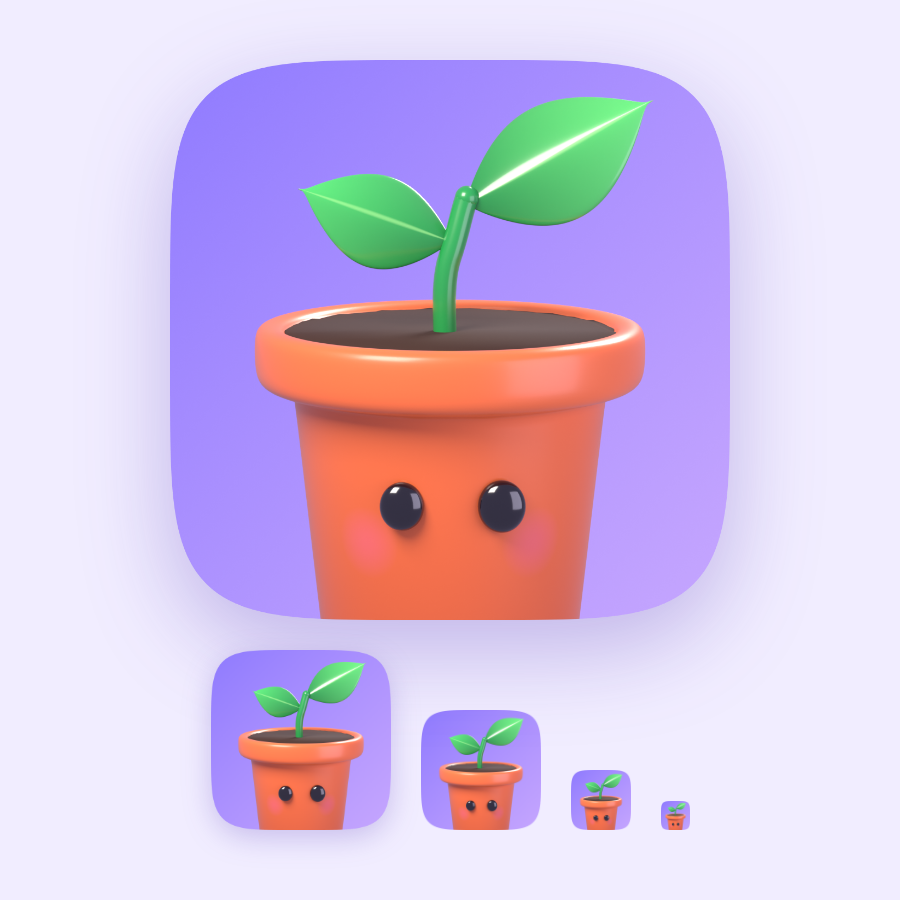
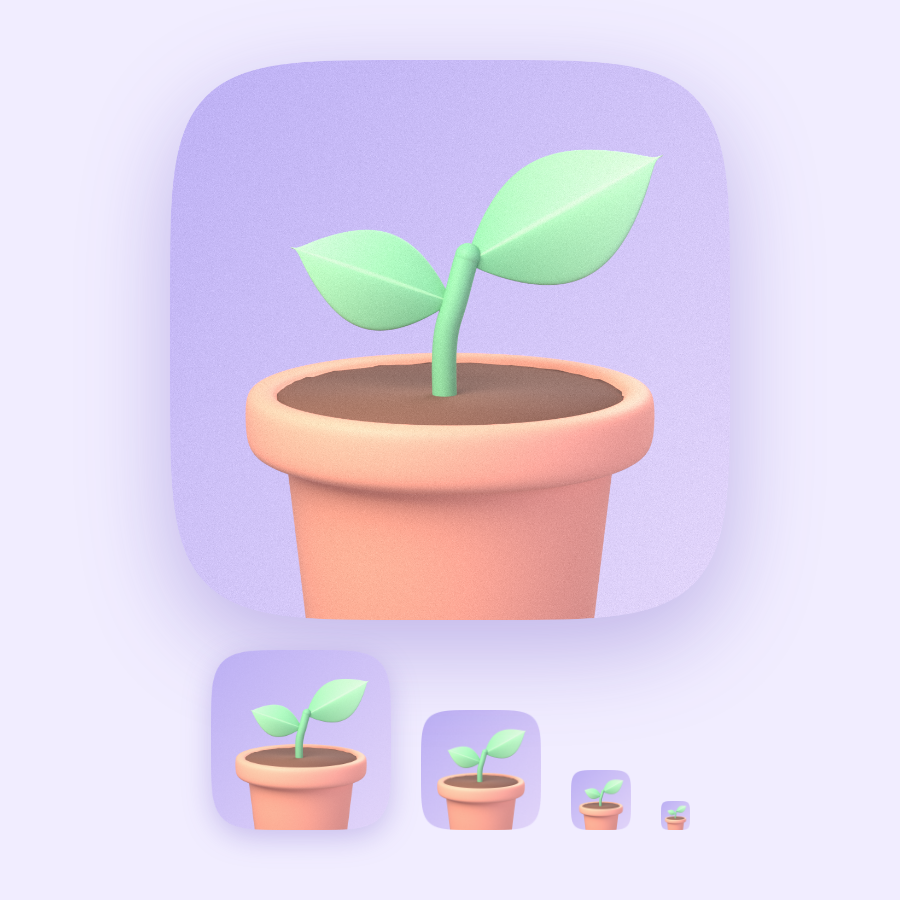
Passe le pot 3D en argile pastel, sans visage, avec un grain léger
Matières mates sans vernis, teintes pastel (terre cuite, sauge, lilas),
lumière plus diffuse ; yeux et joues retirés ; cadrage resserré sur la
pousse ; grain gaussien de 1,8 %, à graine fixe, appliqué après le rendu.

Claude-Session: https://claude.ai/code/session_01PDVjaF1d2UBx4x9v8SHUv3

diff --git a/icones-proposees/pot-3d.py b/icones-proposees/pot-3d.py
@@ -29,11 +29,11 @@ vs=[bm.verts.new((r,0,z)) for r,z in prof]
 for a,b in zip(vs,vs[1:]): bm.edges.new((a,b))
 bm.to_mesh(me);bm.free()
 potm=bpy.data.materials.new('terre');potm.use_nodes=True;nt=potm.node_tree;N=nt.nodes;L=nt.links
-bs=N['Principled BSDF'];bs.inputs['Roughness'].default_value=.38;bs.inputs['Coat Weight'].default_value=.35;bs.inputs['Coat Roughness'].default_value=.2
+bs=N['Principled BSDF'];bs.inputs['Roughness'].default_value=.62;bs.inputs['Coat Weight'].default_value=0;bs.inputs['Subsurface Weight'].default_value=.12;bs.inputs['Subsurface Radius'].default_value=(.3,.15,.1)
 # joues : deux taches roses en coordonnées objet
-tc=N.new('ShaderNodeTexCoord');base=N.new('ShaderNodeRGB');base.outputs[0].default_value=hexc('#F4733A')
+tc=N.new('ShaderNodeTexCoord');base=N.new('ShaderNodeRGB');base.outputs[0].default_value=hexc('#F2A488')
 cur=base.outputs[0]
-for x in (-0.52,0.52):
+for x in ():
     d=N.new('ShaderNodeVectorMath');d.operation='DISTANCE';d.inputs[1].default_value=(x*1.02,-0.8,-0.22)
     L.new(tc.outputs['Object'],d.inputs[0])
     mr=N.new('ShaderNodeMapRange');mr.inputs[1].default_value=0.05;mr.inputs[2].default_value=0.24;mr.inputs[3].default_value=.75;mr.inputs[4].default_value=0
@@ -44,7 +44,7 @@ for x in (-0.52,0.52):
 sep=N.new('ShaderNodeSeparateXYZ');L.new(tc.outputs['Object'],sep.inputs[0])
 mr=N.new('ShaderNodeMapRange');mr.inputs[1].default_value=-1.5;mr.inputs[2].default_value=0.5;mr.inputs[3].default_value=.45;mr.inputs[4].default_value=0
 L.new(sep.outputs['Z'],mr.inputs[0])
-mx=N.new('ShaderNodeMix');mx.data_type='RGBA';mx.inputs['B'].default_value=hexc('#C9481C')
+mx=N.new('ShaderNodeMix');mx.data_type='RGBA';mx.inputs['B'].default_value=hexc('#D98870')
 L.new(mr.outputs[0],mx.inputs['Factor']);L.new(cur,mx.inputs['A']);L.new(mx.outputs['Result'],bs.inputs['Base Color'])
 pot=obj('pot',me,potm)
 sw=pot.modifiers.new('tour','SCREW');sw.steps=96;sw.render_steps=96;sw.use_merge_vertices=True;sw.use_smooth_shade=True
@@ -52,11 +52,11 @@ subsurf(pot,2)
 
 # ---- terre
 bpy.ops.mesh.primitive_cylinder_add(vertices=96,radius=0.985,depth=0.1,location=(0,0,0.855))
-soil=bpy.context.object;soil.data.materials.append(mat('terreau','#3B2418',rough=.95,coat=0))
+soil=bpy.context.object;soil.data.materials.append(mat('terreau','#7A5646',rough=.95,coat=0))
 dm=soil.modifiers.new('d','DISPLACE');tx=bpy.data.textures.new('n','CLOUDS');tx.noise_scale=.08;dm.texture=tx;dm.strength=.035
 bpy.ops.object.shade_smooth()
 
-green=mat('tige','#22A04A',rough=.3,coat=.6)
+green=mat('tige','#78C48E',rough=.6,coat=0,sss=.1)
 # ---- tige
 cu=bpy.data.curves.new('tige','CURVE');cu.dimensions='3D';cu.bevel_depth=.07;cu.bevel_resolution=6;cu.use_fill_caps=True
 sp=cu.splines.new('BEZIER');sp.bezier_points.add(2)
@@ -80,38 +80,32 @@ def leaf(name,L_,W,fold,curl,loc,rot,col):
             for lp,(a,b) in zip(f.loops,[(i,j),(i+1,j),(i+1,j+1),(i,j+1)]): lp[uvl].uv=(a/nu,b/nv)
     bm.to_mesh(me);bm.free()
     m=bpy.data.materials.new(name);m.use_nodes=True;nt=m.node_tree;N=nt.nodes;Lk=nt.links;b=N['Principled BSDF']
-    b.inputs['Roughness'].default_value=.28;b.inputs['Coat Weight'].default_value=.7;b.inputs['Coat Roughness'].default_value=.1
+    b.inputs['Roughness'].default_value=.58;b.inputs['Coat Weight'].default_value=0
     b.inputs['Subsurface Weight'].default_value=.15
     uv=N.new('ShaderNodeUVMap');se=N.new('ShaderNodeSeparateXYZ');Lk.new(uv.outputs[0],se.inputs[0])
     # nervure : |v-0.5| petit
     m1=N.new('ShaderNodeMath');m1.operation='SUBTRACT';m1.inputs[1].default_value=.5;Lk.new(se.outputs['Y'],m1.inputs[0])
     m2=N.new('ShaderNodeMath');m2.operation='ABSOLUTE';Lk.new(m1.outputs[0],m2.inputs[0])
-    mr=N.new('ShaderNodeMapRange');mr.inputs[1].default_value=.008;mr.inputs[2].default_value=.03;mr.inputs[3].default_value=.6;mr.inputs[4].default_value=0
+    mr=N.new('ShaderNodeMapRange');mr.inputs[1].default_value=.008;mr.inputs[2].default_value=.03;mr.inputs[3].default_value=.45;mr.inputs[4].default_value=0
     Lk.new(m2.outputs[0],mr.inputs[0])
     # dégradé base → pointe
     ramp=N.new('ShaderNodeValToRGB');ramp.color_ramp.elements[0].color=hexc(col[0]);ramp.color_ramp.elements[1].color=hexc(col[1])
     Lk.new(se.outputs['X'],ramp.inputs[0])
-    mx=N.new('ShaderNodeMix');mx.data_type='RGBA';mx.inputs['B'].default_value=hexc('#8FE07F')
+    mx=N.new('ShaderNodeMix');mx.data_type='RGBA';mx.inputs['B'].default_value=hexc('#B4E6B4')
     Lk.new(mr.outputs[0],mx.inputs['Factor']);Lk.new(ramp.outputs[0],mx.inputs['A']);Lk.new(mx.outputs['Result'],b.inputs['Base Color'])
     o=obj(name,me,m);o.location=loc;o.rotation_euler=[math.radians(a) for a in rot]
     s=o.modifiers.new('e','SOLIDIFY');s.thickness=.025;s.offset=0;subsurf(o,2)
     return o
-leaf('feuilleD',1.25,.40,.45,.10,(0.10,0.02,1.66),(70,-28,0),('#16883C','#5FDB6E'))
-leaf('feuilleG',0.95,.31,.45,.08,(0.0,0.0,1.44),(-70,-18,180),('#16883C','#4CCB62'))
-
-# ---- yeux
-eyem=mat('oeil','#0E0F18',rough=.08,coat=1)
-for x,r in ((-0.27,0.125),(0.29,0.135)):
-    bpy.ops.mesh.primitive_uv_sphere_add(segments=48,ring_count=24,radius=r,location=(x,-0.875,0.04))
-    e=bpy.context.object;e.scale=(1,.55,1.12);e.data.materials.append(eyem);bpy.ops.object.shade_smooth()
+leaf('feuilleD',1.25,.40,.45,.10,(0.10,0.02,1.66),(70,-28,0),('#6DBB86','#A8E3AE'))
+leaf('feuilleG',0.95,.31,.45,.08,(0.0,0.0,1.44),(-70,-18,180),('#6DBB86','#9DDCA6'))
 
 # ---- monde : fond lilas vu par la caméra, lumière douce ailleurs
 w=bpy.data.worlds.new('w');sc.world=w;w.use_nodes=True;nt=w.node_tree;N=nt.nodes;L=nt.links
 bg=N['Background'];tc=N.new('ShaderNodeTexCoord');se=N.new('ShaderNodeSeparateXYZ');L.new(tc.outputs['Window'],se.inputs[0])
 ma=N.new('ShaderNodeMath');ma.operation='ADD';L.new(se.outputs['X'],ma.inputs[0]);mb=N.new('ShaderNodeMath');mb.operation='SUBTRACT';mb.inputs[0].default_value=1;L.new(se.outputs['Y'],mb.inputs[1]);L.new(mb.outputs[0],ma.inputs[1])
 mm=N.new('ShaderNodeMath');mm.operation='MULTIPLY';mm.inputs[1].default_value=.5;L.new(ma.outputs[0],mm.inputs[0])
-ramp=N.new('ShaderNodeValToRGB');e=ramp.color_ramp.elements;e[0].color=hexc('#8F7BFF');e[1].color=hexc('#C6A6FF');L.new(mm.outputs[0],ramp.inputs[0])
-amb=N.new('ShaderNodeBackground');amb.inputs[0].default_value=hexc('#D9CCFF');amb.inputs[1].default_value=.55
+ramp=N.new('ShaderNodeValToRGB');e=ramp.color_ramp.elements;e[0].color=hexc('#BDB0F5');e[1].color=hexc('#E3D6FB');L.new(mm.outputs[0],ramp.inputs[0])
+amb=N.new('ShaderNodeBackground');amb.inputs[0].default_value=hexc('#EDE6FF');amb.inputs[1].default_value=.55
 lp=N.new('ShaderNodeLightPath');mix=N.new('ShaderNodeMixShader');bg.inputs[1].default_value=1
 L.new(ramp.outputs[0],bg.inputs[0]);L.new(lp.outputs['Is Camera Ray'],mix.inputs[0]);L.new(amb.outputs[0],mix.inputs[1]);L.new(bg.outputs[0],mix.inputs[2])
 L.new(mix.outputs[0],N['World Output'].inputs[0])
@@ -120,13 +114,17 @@ def area(name,loc,size,energy,col='#FFFFFF'):
     l=bpy.data.lights.new(name,'AREA');l.size=size;l.energy=energy;l.color=hexc(col)[:3]
     o=obj(name,l);o.location=loc
     d=Vector((0,0,0.4))-Vector(loc);o.rotation_euler=d.to_track_quat('-Z','Y').to_euler()
-area('cle',(-4,-5,6),4,900,'#FFF6EE')
-area('remplissage',(5,-4,1),5,260,'#E8E0FF')
-area('contre',(3,4,5),3,500,'#FFFFFF')
+area('cle',(-4,-5,6),6,1100,'#FFF4EA')
+area('remplissage',(5,-4,1),5,200,'#DCD2FF')
+area('contre',(3,4,5),5,350,'#FFFFFF')
 
-cam=bpy.data.cameras.new('cam');cam.lens=125;co=obj('cam',cam);sc.camera=co
-co.location=(0,-11.5,2.6);d=Vector((0,0,0.85))-co.location;co.rotation_euler=d.to_track_quat('-Z','Y').to_euler()
+cam=bpy.data.cameras.new('cam');cam.lens=132;co=obj('cam',cam);sc.camera=co
+co.location=(0,-11.5,3.2);d=Vector((0,0,1.22))-co.location;co.rotation_euler=d.to_track_quat('-Z','Y').to_euler()
 
 sc.render.engine='CYCLES';sc.cycles.device='CPU';sc.cycles.samples=SAMPLES;sc.cycles.use_denoising=True
 sc.render.resolution_x=sc.render.resolution_y=1024;sc.view_settings.view_transform='Standard';sc.view_settings.look='None'
 sc.render.filepath=OUT;bpy.ops.render.render(write_still=True)
+import numpy as np
+im=bpy.data.images.load(OUT);px=np.array(im.pixels[:],dtype=np.float32).reshape(-1,4)
+rng=np.random.default_rng(7);g=rng.normal(0,.018,(px.shape[0],1)).astype(np.float32)
+px[:,:3]=np.clip(px[:,:3]+g,0,1);im.pixels[:]=px.ravel();im.filepath_raw=OUT;im.file_format='PNG';im.save()
